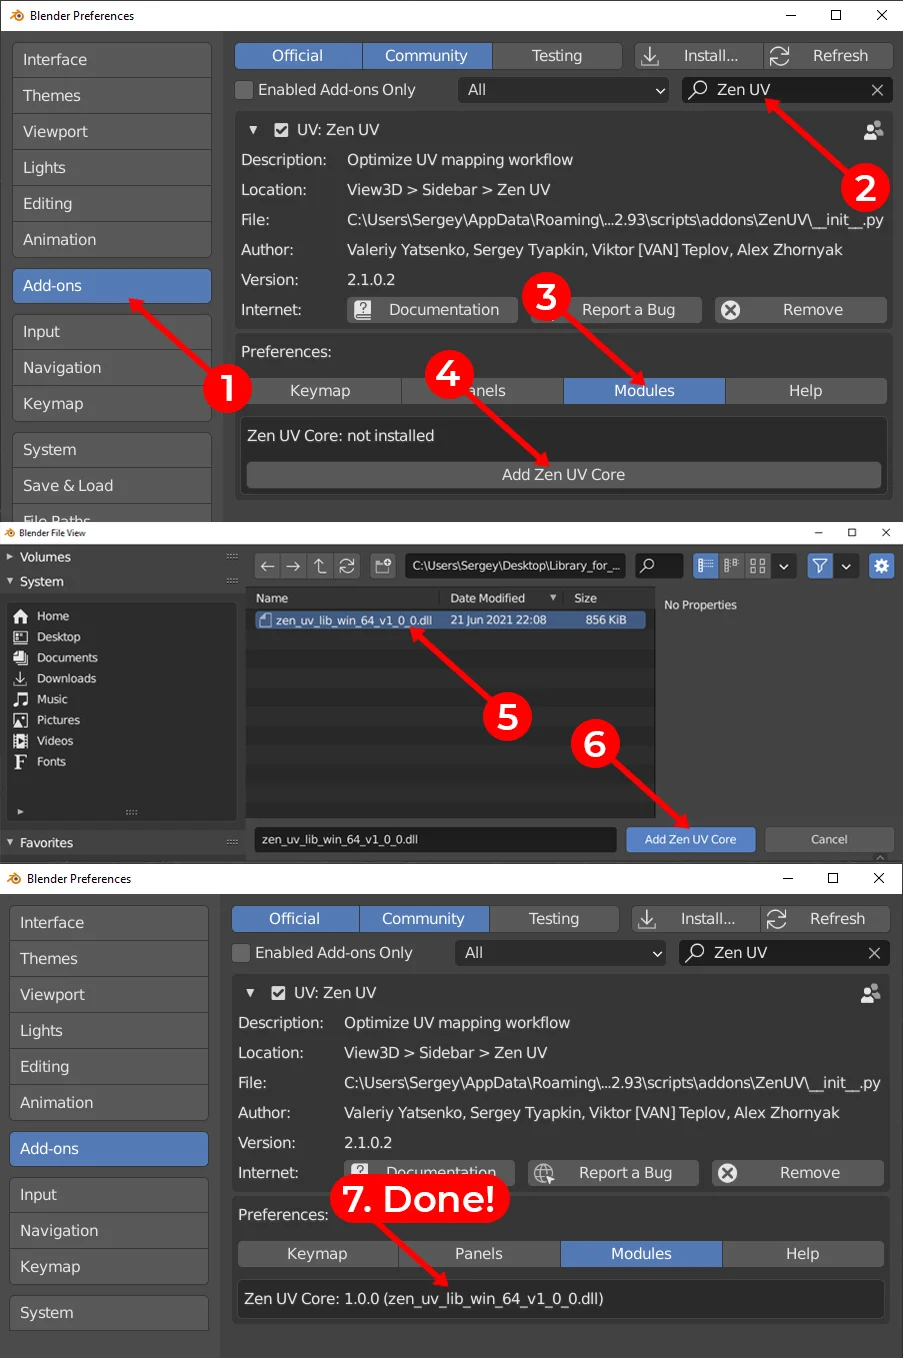
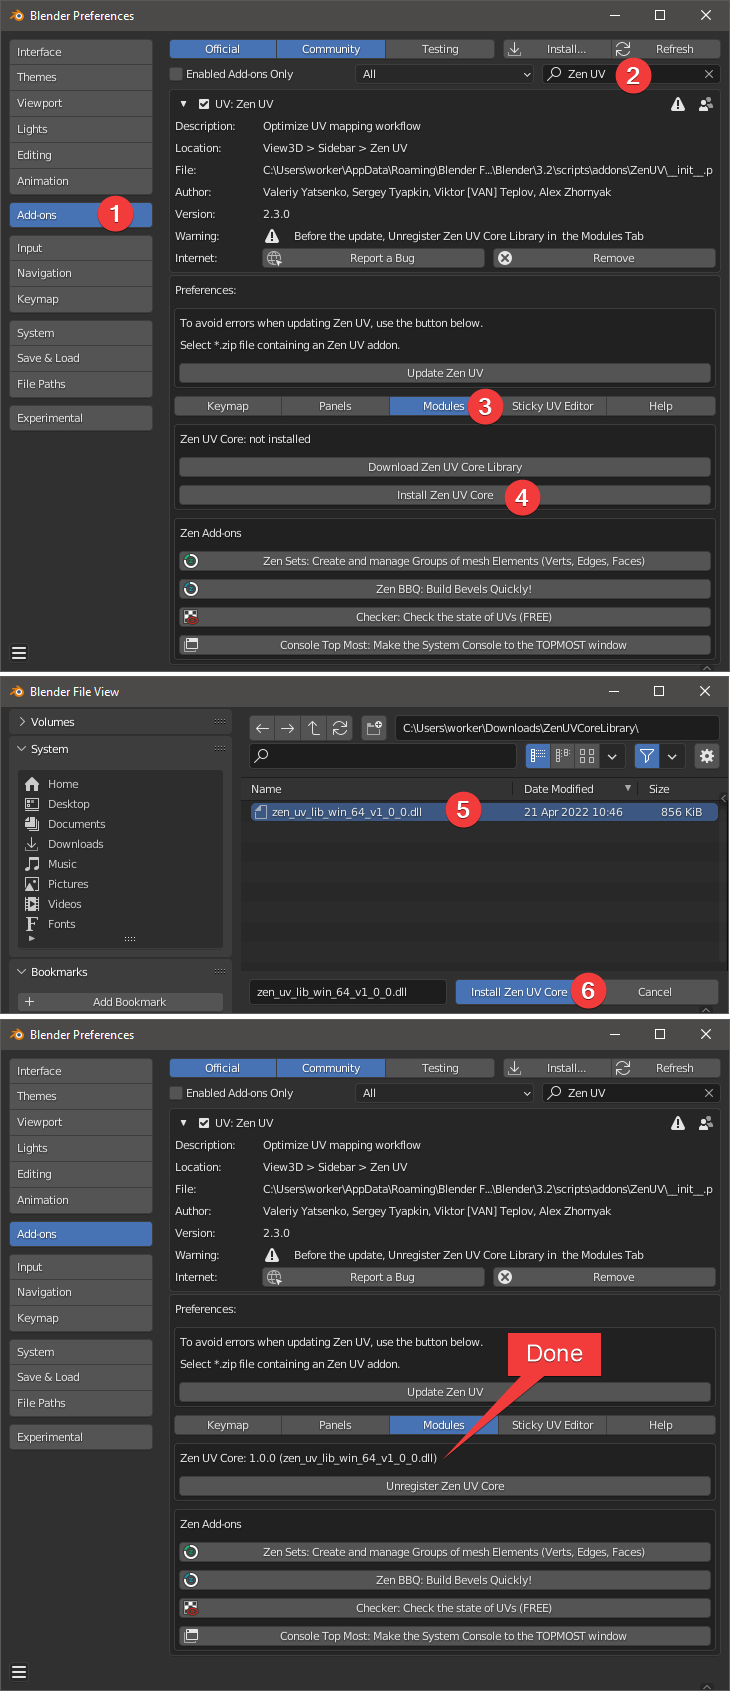
updated

diff --git a/mkdocs/pie-menu.md b/mkdocs/pie-menu.md
@@ -2,44 +2,45 @@
 
 ![Pie Menu](img/screen/pie.png)
 
-## Zen Unwrap ![Zen Unwrap](img/icons/zen-unwrap@2x.png)
+## 2. Zen Unwrap ![Zen Unwrap](img/icons/zen-unwrap@2x.png)
 
 - *Default* — **Zen Unwrap.** Mark selected edges/faces as Seams and/or Sharp edges and Unwrap by Marked edges after.
 - `ALT` — Pack all Islands.
 
-## Mark by Angle
+## 9. Mark by Angle
 
 - *Default* — Setup Auto Seams.
-- `ALT` — Setup Seams by UV borders.
 
-## Mark Seams/Sharp edges ![Mark Seams](img/icons/mark-seams@2x.png)
+## 6. Mark Seams/Sharp edges ![Mark Seams](img/icons/mark-seams@2x.png)
 
 - *Default* — Mark selected edges or face borders as Seams and/or Sharp edges.
-- `CTRL` — Tag selected Islands as Finished
+- `CTRL` — Tag selected Islands as Finished.
 
-## Unmark Seams/Sharp edges ![Unmark Seams](img/icons/unmark-seams@2x.png)
+## 4. Unmark Seams/Sharp edges ![Unmark Seams](img/icons/unmark-seams@2x.png)
 
 - *Default* — Unmark selected edges or face borders as Seams and/or Sharp edges.
-- `ALT` — Unmark All - Remove all the Seams and/or Sharp edges from the mesh
+- `ALT` — Unmark All - Remove all the Seams and/or Sharp edges from the mesh.
 - `CTRL` — Tag Unfinished - Tag selected Islands as Unfinished.
 
 
-## Select Islands
+## 7. Select Islands
 
-- *Default* — Select Islands by selected edge/face of the Islands
+- *Default* — Select Islands by selected edge/face of the Islands.
 - `ALT` — Select Overlapped Islands.
 - `CTRL` — Select Flipped Islands.
 - `SHIFT` - Select Similar Islands.
 
-## Isolate Islands (Toggle)
+## 8. Isolate Islands (Toggle)
 
 - *Default* — Isolate Islands (Toggle) by selected edge/face of the Islands.
 
-## Quadrify Islands ![Quadrify Islands](img/icons/quadrify_32.png)
+## 1. Quadrify Islands ![Quadrify Islands](img/icons/quadrify_32.png)
 
-- *Default* — Straighten rectangular shaped Islands.
+- *Default* — Straighten rectangular-shaped Islands.
+- `CTRL` — Relax(beta) - Relax Selected Islands.
 
-## Checker Texture (Toggle) ![Checker Texture](img/icons/checker_32.png)
+## 3. Checker Texture (Toggle) ![Checker Texture](img/icons/checker_32.png)
 
 - *Default* — Add Checker Texture to the mesh (Toggle).
+- `ALT` — Display Stretch Map. Display an angle-based stretching map.
 - `CTRL` — Display Finished Islands (Toggle).

diff --git a/mkdocs/installation.md b/mkdocs/installation.md
@@ -1,12 +1,16 @@
 # Installation
 
 ## Zen UV
-
+To install the addon go to **Preferences --- Addons --- Install**, then you can enable the addon by clicking on the checkbox.
+<br><br>
 ![Installation](img/screen/installation.png)
 
-To install addon go to **Preferences --- Addons --- Install**, then you can enable addon by clicking on the checkbox.
+Also, you can [**watch the video**](https://youtu.be/dqpgWcRBE4o?t=17) (with time code) how to install it.
 
-Also, you can [**watch the video**](https://youtu.be/dqpgWcRBE4o?t=17) how to install it.
+<div style="position: relative; width: 100%; height: 0; padding-bottom: 56.25%;">
+<iframe src="https://www.youtube.com/embed/dqpgWcRBE4o?t=20" style="position: absolute; top: 0; left: 0; width: 100%; height: 100%;" allowfullscreen="" seamless="" frameborder="0"></iframe>
+</div>
+<br><br>
 
 ## Zen UV - Core Library
 ![Core Library](img/screen/core_library/core_library.png)
@@ -15,12 +19,12 @@ This is an additional library of the Zen UV add-on to get the fastest computatio
 
 ### Installation
 
-1. Be sure that Zen UV add-on is already installed.
-2. Go to Edit -> Preferences -> Add-ons -> Zen UV
-3. Go to Modules
-4. Press  Add Zen UV Core
-5. Select zen_uv_lib file in the File View Window. 
-6. Press  Add Zen UV Core
+1. Be sure that the Zen UV add-on is already installed.
+2. Go to Edit -> Preferences -> Add-ons -> Zen UV.
+3. Go to Modules.
+4. Press  Install Zen UV Core.
+5. Select the zen_uv_lib file in the Blender File View Window.
+6. Press  Install Zen UV Core
 7. Done!
 
 ![Core Installation](img/screen/core_library/core_installation.png)

diff --git a/mkdocs/index.md b/mkdocs/index.md
@@ -1,12 +1,10 @@
 # Zen UV for Blender 3.0 (Relax)
 <!-- [![Zen UV Introduction](img/cover--eng.png)](https://www.youtube.com/watch?v=ook2eFfH724) -->
-<!-- blank line -->
+![stand_with_Ukraine](img/I_stand_with_Ukraine_banner.svg)
 <div style="position: relative; width: 100%; height: 0; padding-bottom: 56.25%;">
 <iframe src="https://www.youtube.com/embed/Yj2SecY-c1" style="position: absolute; top: 0; left: 0; width: 100%; height: 100%;" allowfullscreen="" seamless="" frameborder="0"></iframe>
 </div>
-<!-- blank line -->
 <br>
-<!-- blank line -->
 
 **Zen UV** is not just a set of tools, it is ready to use the pipeline for fast creating UVs in Blender. It represents an intuitive system created by professionals and refined in real projects.
 
